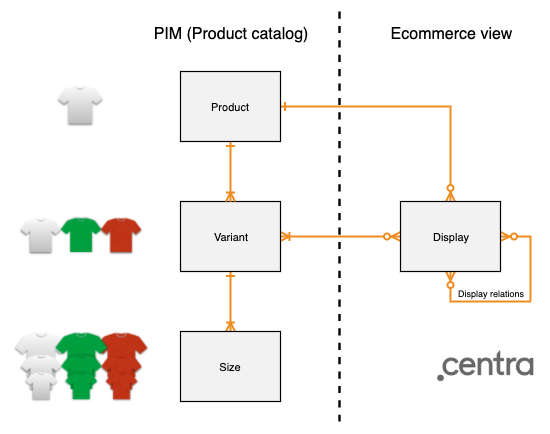
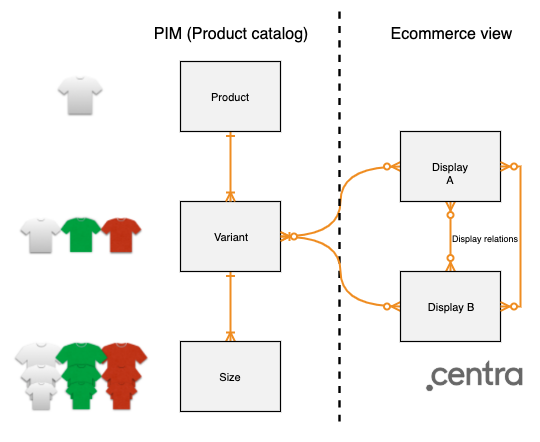
Review fixes 2

diff --git a/pages/01.overview/03.products/docs.md b/pages/01.overview/03.products/docs.md
@@ -18,7 +18,7 @@ A Product is stored in a hierarchical structure, in which the Product is broken 
 
 Most information is stored on the Product level, where you find the Folder, Collection and all basic information such as Country of Origin, HS Code and Material Composition.
 
-The Variant level focuses on media (images) and a few attributes, notably color. Campaigns can be set on the Variant level. Besides actual size, the Size level stores GTINs (UPC or EAN codes) and weight. Stock inventory is stored on the Size level, as the size represents the physical item that exists in a warehouse.
+The Variant level focuses on media (images) and a few attributes, notably color. Campaigns can be set on the Variant level. Besides actual size, the Size level stores GTINs (UPC or EAN codes). Stock inventory is stored on the Size level, as the size represents the physical item that exists in a warehouse.
 
 All products have at least one Variant and all Variants have at least one Size, even if it is a one-size product.
 
@@ -26,14 +26,15 @@ All products have at least one Variant and all Variants have at least one Size, 
 
 A Display is, just like a display in a brick-and-mortar store, one or more related items for sale that is arranged and presented in a way that might trigger a purchase. An item for sale might be included in more than one Display. You might for example have a unisex item included both in a Display in the Women’s and Men’s department. When you query the API for what to show on a category page, you will get a set of Displays back, and when you query the API for what to show on a product page, you will get a single Display.
 
-Displays can also be related to each other, which can be used in the front end to show off different variants of the same product, or suggest products that might go well together.
+You can also activate many variants on a single Display, for example all variants of the same Product can share a Display. If you do that, Centra APIs will return the first Variant activated in the Display, and return all other activated Variants as API products related to the first one. The type of relation is configurable.
+
+Displays can also be related to each other, which can be used in the front end to show off different variants of the same product, or suggest products that might go well together. Relations have no special logic in Centra, they are technically only simple attributes pointing one-way to another Display, they mostly affect how Products are returned in the APIs.
 
 ### Attributes
 
 Displays carry attributes set on all three different levels in the Product model as well as attributes set on the Display itself.
 
 Centra has three Attribute Categories: Standard, Pre-Defined and Custom.
-
 
 | Attribute Category | Description | Examples |
 |--------------------|-------------|----------|
@@ -96,7 +97,7 @@ This is a design decision you should carefully consider when onboarding with Cen
 | | Shirts | Phone cases v1 | Phone cases v2 |
 |---|---|---|---|
 | Product | Specific style or cut. Similar shirt made of different material is probably a different product. | Specific design and material of a case. Same design cases made of plastic and silicon could be different products. | Case made for a specific phone model. |
-| Variant | Different colors of the same style. | Same design and material cases made for a different phone model. Amount of material will differ, but due to its cheapness the prices can be the same. | Different designs cases for the same case model, including different materials. They can have same or different prices. |
+| Variant | Different colors of the same style. | Same design and material cases made for a different phone model. Amount of material will differ, but thanks to the margins, the prices can be the same for all variants. | Different designs cases for the same case model, including different materials. They can have same or different prices. |
 | Size | Different sizes of the same color. Same price for each. | Each variant should only have one size. | Each variant should only have one size. |
 | Display | You can display each variant separately, or create a single display for unisex products. | You can set up a single display for a specific case design and activate it for all phone model variants. | You can set up a single display for all designs variants made for the same phone model. |
 

diff --git a/pages/01.overview/04.stock/docs.md b/pages/01.overview/04.stock/docs.md
@@ -24,16 +24,15 @@ Physical | FTA | Allocated | Linked | Demand | Unshipped | Available Now | Unlin
 
 * **Physical** = FTA + Allocated  
 This is the quantity that you have on the shelf in the warehouse. If there are any differences, Centra wouldn’t know about it.
-* **FTA** = Physical - Allocated - Warehouse Threshold/Product Variant offset  
-Free to Allocate. This is the quantity of said product which is available to allocate on orders, or simply, this is the quantity available. 
-Quantity might be protected from being sold by "Warehouse Threshold" or "Product variant offset" setting. 
-If product offset is greater than 0, it overrides warehouse threshold settings.
+* **FTA** = Physical - Allocated (- Warehouse Threshold/Product Variant offset)  
+Free to Allocate. This is the quantity of said product which is available to allocate on orders, or simply, this is the quantity available. You can sell that quantity without affecting existing orders.   
+Quantity might be protected from being sold by "Warehouse Threshold" or "Product variant offset" setting. If product offset is greater than 0, it overrides warehouse threshold settings.
 * **Allocated** = Physical - FTA  
 The number of said products that are allocated on orders or shipments which are not yet completed.
 * **Linked**  
 The quantity of said product which is on order and linked towards a supplier order.
 * **Demand**  
-The quantity of said product which is on order but not linked to a supplier order or allocated. All products in unshipped orders that are back ordered or on preorder.
+The quantity of said product which is on order but not linked to a supplier order or allocated. Basically, amount of products ordered via preorder or backorder, which will need to have Stock added in order to be allocated and shipped in the future.
 * **Unshipped**  
 The quantity of products on the order which are not yet shipped, including preorder or demand.
 * **Available now** = FTA - Demand  

diff --git a/pages/01.overview/07.orderflow/docs.md b/pages/01.overview/07.orderflow/docs.md
@@ -35,7 +35,7 @@ Here's the basic order flow as seen in Centra backend.
 * **Incomplete** (0)  
   This is a selection before the checkout is completed. It contains the list of selected items, information about language and currency, discounts, plus a list of optional shipping methods.
 * **Pending** (1)  
-  This order has been checked out, with payment authorization being completed. Depending on the Store settings, payment capture attempt may follow immediately, otherwise capture will be done on order shipment. In addition to the incomplete order, it contains information on customer, selected shipping and payment. This step can be skipped by enabling the Store option "Autoconfirm Orders".
+  This order has been checked out, with [payment authorization](/overview/glossary#payment-authorization) being completed. Depending on the Store settings, [payment capture](/overview/glossary#payment-capture) attempt may follow immediately, otherwise capture will be done on order shipment. In addition to the incomplete order, it contains information on customer, selected shipping and payment. This step can be skipped by enabling the Store option "Autoconfirm Orders".
 * **Confirmed** (2)  
   This order has been manually confirmed in the Centra admin panel, or confirmed automatically by appropriate Store setting. Only confirmed orders can have shipments created. This step can be skipped by enabling store option “Direct to Shipment”, in which case the checked out order will transfer to status Processing (3) with a shipment created and marked Good-To-Go.
 * **Processing** (3)  

diff --git a/pages/01.overview/01.glossary/docs.md b/pages/01.overview/01.glossary/docs.md
@@ -240,6 +240,12 @@ See [Order flow in Centra](/guides/orderflow).
 
 ## **P**
 
+### **Payment authorization**  
+This is the initial part of the payment, when the payment provider verifies the purchaser has the available funds to cover the transaction, and reserves the funds on the account of the purchaser. The reserved funds often show as "blocked" in the purchaser's account. Payment authotization is enough to complete the payment in Centra and finalize placing the order, payment capture usually occurs later.
+
+### **Payment capture**  
+This is the second part of the payment, when the funds are actually transferred from the account of the purchaser to the merchant account. Payments that have been captured can no longer be cancelled, they should be refunded instead, if needed. Remember, that depending on the Payment Service Provider and the payment method used, there is a maximum time limit between authorization and capture (usually between 14 and 30 days). By default, Centra will finalize the payment capture when the Order is shipped, but you can configure it to capture immediately, or capture manually in the UI.
+
 ### **Pending** (order status 1)  
 This order has been checked out, with payment steps being completed. In addition to the incomplete order, it contains information on customer, shipping and payment.
 

diff --git a/pages/01.overview/02.centra-overview/docs.md b/pages/01.overview/02.centra-overview/docs.md
@@ -64,7 +64,7 @@ Most information is stored on the Product level, where you find the Folder, Coll
 
 The Variant level focuses on media (images) and a few attributes, notably color.
 
-Besides actual size, the Size level stores GTINs (UPC or EAN codes) and weight. Stock inventory is stored on the Size level, as the size represents the physical item that exists in a warehouse. 
+Besides actual size, the Size level stores GTINs (UPC or EAN codes). Stock inventory is stored on the Size level, as the size represents the physical item that exists in a warehouse. 
 
 ### Product Display
 
@@ -72,7 +72,7 @@ A Display is, just like a display in a brick-and-mortar store, one or more relat
 
 ### Warehouse
 
-A Warehouse in Centra is where stock is stored. Warehouse is defined by its name and priority. Each Warehouse can belong to one or more Allocation Rules. When stock is added, either by importing a CSV or via stock editor, it always needs to be added to one of the Warehouses. There are no storage locations in Centra.
+A Warehouse in Centra is where stock is stored. Warehouse is defined by its name and priority. Each Warehouse can belong to one or more Allocation Rules. When stock is added, either via API, by importing a CSV or via stock editor, it always needs to be added to one of the Warehouses.
 
 ### Allocation Rule
 

diff --git a/pages/01.overview/08.custom-attributes/docs.md b/pages/01.overview/08.custom-attributes/docs.md
@@ -16,7 +16,7 @@ The API-outputs defined below are using the Shop API, some differences might app
 
 ### Mapped attributes
 
-The normal attribute on a product or variant is one which is mapped to an attribute object which can contain meta-data. There is a reason for this, for example: if you have a specific Color-attribute that contains the name, hex-code and image of the color. You do not want to upload these values every time, so an attribute is then created, which you then link to the products that should have the color.
+The normal attribute on a product or variant is one which is mapped to an attribute object which can contain meta-data. There is a reason for this, for example: if you have a specific Color-attribute that contains the name, hex-code and image of the color. You do not want to upload these values every time, so an attribute is then created, which you then link to the products that should have the color. Think of mapped attributes as const values that you can later choose from.
 
 The structure looks something like this:
 
